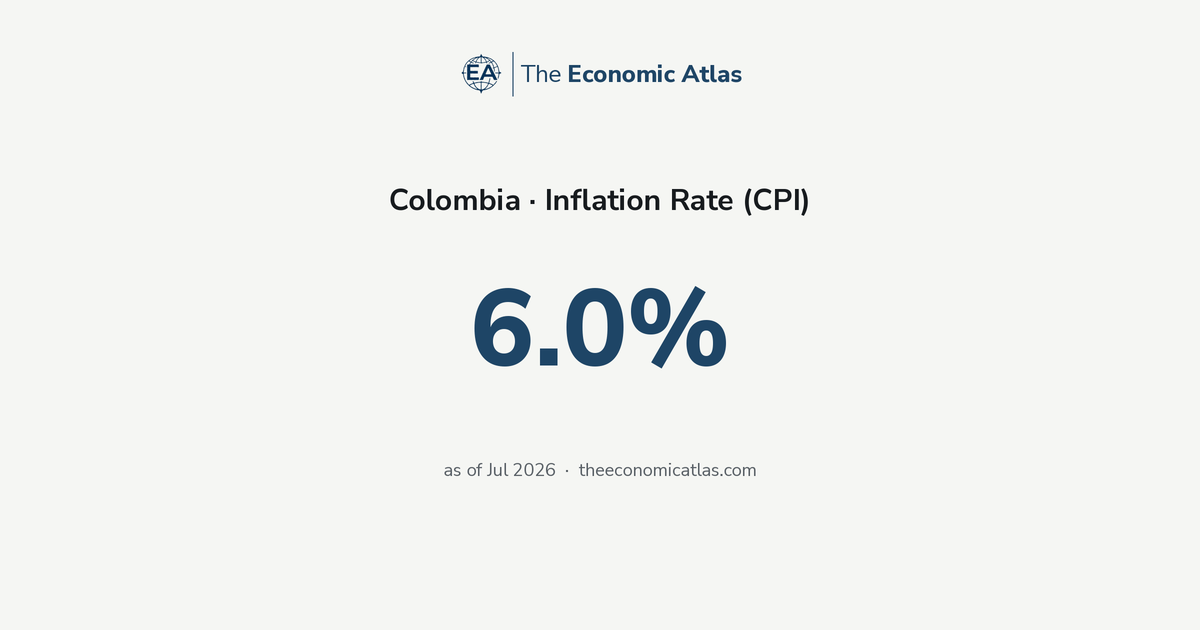
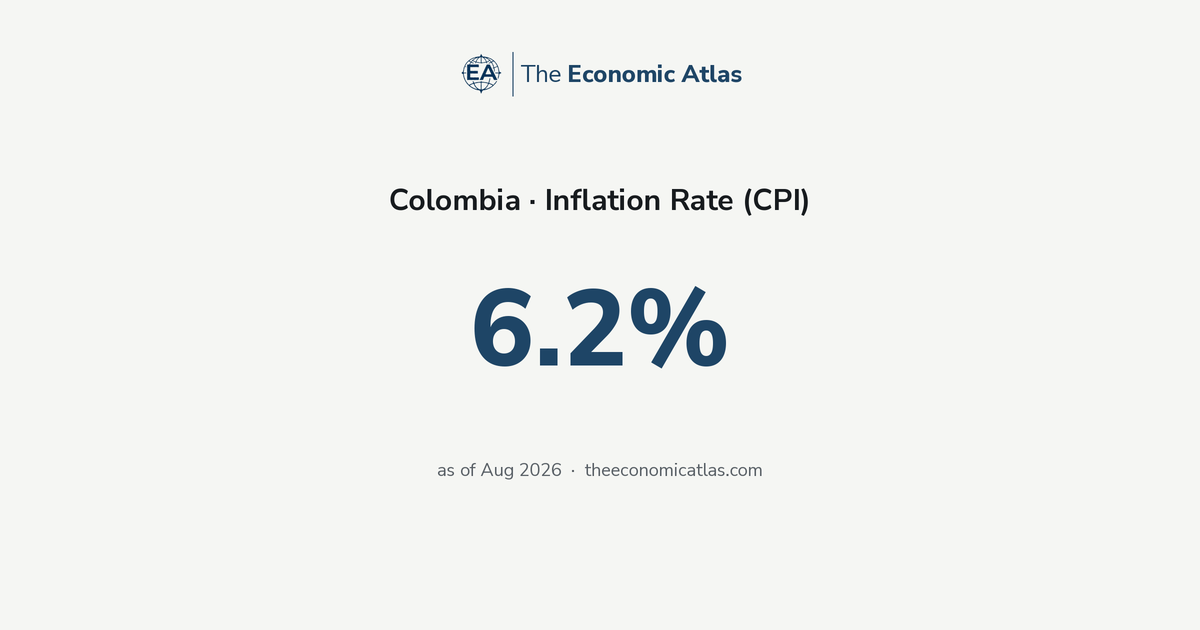
Regenerate indicator pages and OG cards

Changed region(s): [[0.4625, 0.4524, 0.5242, 0.6032], [0.37, 0.7238, 0.6475, 0.754]]

diff --git a/indicators/colombia-inflation-rate.html b/indicators/colombia-inflation-rate.html
@@ -4,16 +4,16 @@
 <meta charset="UTF-8">
 <meta name="viewport" content="width=device-width, initial-scale=1.0">
 <title>Colombia Inflation Rate (CPI) · Live Data &amp; History | The Economic Atlas</title>
-<meta name="description" content="Colombia inflation rate: 6.0% as of 2026-07. How much consumer prices are rising compared with a year ago. Banco de la República targets 3% inflation, with a tolerance band of ±1 percentage point.">
+<meta name="description" content="Colombia inflation rate: 6.2% as of 2026-08. How much consumer prices are rising compared with a year ago. Banco de la República targets 3% inflation, with a tolerance band of ±1 percentage point.">
 <link rel="canonical" href="https://theeconomicatlas.com/indicators/colombia-inflation-rate">
 <meta property="og:type" content="website">
-<meta property="og:title" content="Colombia Inflation Rate (CPI): 6.0%">
-<meta property="og:description" content="Colombia inflation rate: 6.0% as of 2026-07. How much consumer prices are rising compared with a year ago. Banco de la República targets 3% inflation, with a tolerance band of ±1 percentage point.">
+<meta property="og:title" content="Colombia Inflation Rate (CPI): 6.2%">
+<meta property="og:description" content="Colombia inflation rate: 6.2% as of 2026-08. How much consumer prices are rising compared with a year ago. Banco de la República targets 3% inflation, with a tolerance band of ±1 percentage point.">
 <meta property="og:image" content="https://theeconomicatlas.com/og/colombia-inflation-rate.png">
 <meta property="og:url" content="https://theeconomicatlas.com/indicators/colombia-inflation-rate">
 <meta name="twitter:card" content="summary_large_image">
-<meta name="twitter:title" content="Colombia Inflation Rate (CPI): 6.0%">
-<meta name="twitter:description" content="Colombia inflation rate: 6.0% as of 2026-07. How much consumer prices are rising compared with a year ago. Banco de la República targets 3% inflation, with a tolerance band of ±1 percentage point.">
+<meta name="twitter:title" content="Colombia Inflation Rate (CPI): 6.2%">
+<meta name="twitter:description" content="Colombia inflation rate: 6.2% as of 2026-08. How much consumer prices are rising compared with a year ago. Banco de la República targets 3% inflation, with a tolerance band of ±1 percentage point.">
 <meta name="twitter:image" content="https://theeconomicatlas.com/og/colombia-inflation-rate.png">
 <link rel="icon" type="image/png" sizes="32x32" href="../favicon-32.png">
 <link rel="apple-touch-icon" href="../apple-touch-icon.png">
@@ -48,7 +48,7 @@
   "name": "Colombia Inflation Rate (CPI)",
   "description": "How much consumer prices are rising compared with a year ago. Banco de la República targets 3% inflation, with a tolerance band of ±1 percentage point.",
   "url": "https://theeconomicatlas.com/indicators/colombia-inflation-rate",
-  "temporalCoverage": "2015-01/2026-07",
+  "temporalCoverage": "2015-01/2026-08",
   "creator": {
     "@type": "Organization",
     "name": "The Economic Atlas",
@@ -576,16 +576,16 @@
   <div class="hero" style="margin:0 0 22px;justify-content:flex-start;">
     <div class="stat" style="max-width:320px;">
       <p class="label">Latest</p>
-      <p class="figure"><span class="led green" id="indicatorLed" title="Updated on schedule" role="img" aria-label="Updated on schedule"></span><span id="indicatorFigure">6.0%</span></p>
-      <p class="delta good" id="indicatorDelta"><span class="arrow" aria-hidden="true">▼</span> −0.1pp vs prior</p>
-      <p class="period" id="indicatorPeriod">Jul 2026 &middot; updated 2026-09-20</p>
+      <p class="figure"><span class="led green" id="indicatorLed" title="Updated on schedule" role="img" aria-label="Updated on schedule"></span><span id="indicatorFigure">6.2%</span></p>
+      <p class="delta bad" id="indicatorDelta"><span class="arrow" aria-hidden="true">▲</span> +0.2pp vs prior</p>
+      <p class="period" id="indicatorPeriod">Aug 2026 &middot; updated 2026-09-20</p>
     </div>
   </div>
 
   <div class="panel indicator-panel">
     <div class="panelhead"><h2>Inflation Rate (CPI)</h2></div>
-    <p class="range" id="indicatorRange">Jan 2015 to Jul 2026</p>
-    <div class="indicator-chart-outer"><canvas id="indicatorChart" role="img" aria-label="Colombia Inflation Rate (CPI), Jan 2015 to Jul 2026"></canvas></div>
+    <p class="range" id="indicatorRange">Jan 2015 to Aug 2026</p>
+    <div class="indicator-chart-outer"><canvas id="indicatorChart" role="img" aria-label="Colombia Inflation Rate (CPI), Jan 2015 to Aug 2026"></canvas></div>
     <p class="src">Source: OECD live prices system · CPI, all items, year on year.</p>
   </div>
 
@@ -613,7 +613,7 @@
 <script src="https://cdnjs.cloudflare.com/ajax/libs/Chart.js/4.4.1/chart.umd.min.js"></script>
 <script>
 (function(){
-  var nominalPts = [["2015-01", 3.815261], ["2015-02", 4.355371], ["2015-03", 4.55449], ["2015-04", 4.636958], ["2015-05", 4.400308], ["2015-06", 4.422205], ["2015-07", 4.458109], ["2015-08", 4.747294], ["2015-09", 5.353647], ["2015-10", 5.897349], ["2015-11", 6.39002], ["2015-12", 6.771054], ["2016-01", 7.459423], ["2016-02", 7.590622], ["2016-03", 7.976525], ["2016-04", 7.933898], ["2016-05", 8.200082], ["2016-06", 8.600918], ["2016-07", 8.960837], ["2016-08", 8.096013], ["2016-09", 7.270965], ["2016-10", 6.48371], ["2016-11", 5.96634], ["2016-12", 5.747127], ["2017-01", 5.47034], ["2017-02", 5.185071], ["2017-03", 4.692643], ["2017-04", 4.661792], ["2017-05", 4.36529], ["2017-06", 3.990044], ["2017-07", 3.399115], ["2017-08", 3.869025], ["2017-09", 3.968971], ["2017-10", 4.046722], ["2017-11", 4.117425], ["2017-12", 4.085457], ["2018-01", 3.672924], ["2018-02", 3.372025], ["2018-03", 3.136882], ["2018-04", 3.129549], ["2018-05", 3.158812], ["2018-06", 3.198665], ["2018-07", 3.120464], ["2018-08", 3.101674], ["2018-09", 3.22347], ["2018-10", 3.331643], ["2018-11", 3.267785], ["2018-12", 3.183291], ["2019-01", 3.154547], ["2019-02", 3.017505], ["2019-03", 3.215506], ["2019-04", 3.251561], ["2019-05", 3.313986], ["2019-06", 3.429982], ["2019-07", 3.787821], ["2019-08", 3.751524], ["2019-09", 3.820726], ["2019-10", 3.861479], ["2019-11", 3.846737], ["2019-12", 3.804302], ["2020-01", 3.622284], ["2020-02", 3.720052], ["2020-03", 3.855482], ["2020-04", 3.505172], ["2020-05", 2.851895], ["2020-06", 2.191811], ["2020-07", 1.969922], ["2020-08", 1.878103], ["2020-09", 1.967422], ["2020-10", 1.748137], ["2020-11", 1.489473], ["2020-12", 1.610449], ["2021-01", 1.597207], ["2021-02", 1.563101], ["2021-03", 1.50655], ["2021-04", 1.947777], ["2021-05", 3.295664], ["2021-06", 3.634762], ["2021-07", 3.970092], ["2021-08", 4.441022], ["2021-09", 4.510173], ["2021-10", 4.583541], ["2021-11", 5.258945], ["2021-12", 5.62267], ["2022-01", 6.944602], ["2022-02", 8.005195], ["2022-03", 8.527874], ["2022-04", 9.2341], ["2022-05", 9.066776], ["2022-06", 9.673833], ["2022-07", 10.20582], ["2022-08", 10.83597], ["2022-09", 11.43989], ["2022-10", 12.22175], ["2022-11", 12.53146], ["2022-12", 13.12247], ["2023-01", 13.25198], ["2023-02", 13.27902], ["2023-03", 13.34433], ["2023-04", 12.82287], ["2023-05", 12.36026], ["2023-06", 12.12962], ["2023-07", 11.78492], ["2023-08", 11.42734], ["2023-09", 10.99432], ["2023-10", 10.47863], ["2023-11", 10.14863], ["2023-12", 9.276055], ["2024-01", 8.346567], ["2024-02", 7.737382], ["2024-03", 7.362685], ["2024-04", 7.163281], ["2024-05", 7.156924], ["2024-06", 7.182466], ["2024-07", 6.860041], ["2024-08", 6.120451], ["2024-09", 5.808777], ["2024-10", 5.406128], ["2024-11", 5.197362], ["2024-12", 5.203063], ["2025-01", 5.22298], ["2025-02", 5.276587], ["2025-03", 5.089996], ["2025-04", 5.162292], ["2025-05", 5.052109], ["2025-06", 4.820067], ["2025-07", 4.900466], ["2025-08", 5.095577], ["2025-09", 5.176739], ["2025-10", 5.512228], ["2025-11", 5.301071], ["2025-12", 5.099884], ["2026-01", 5.353601], ["2026-02", 5.290032], ["2026-03", 5.558911], ["2026-04", 5.681311], ["2026-05", 5.842079], ["2026-06", 6.142751], ["2026-07", 6.026292]];
+  var nominalPts = [["2015-01", 3.815261], ["2015-02", 4.355371], ["2015-03", 4.55449], ["2015-04", 4.636958], ["2015-05", 4.400308], ["2015-06", 4.422205], ["2015-07", 4.458109], ["2015-08", 4.747294], ["2015-09", 5.353647], ["2015-10", 5.897349], ["2015-11", 6.39002], ["2015-12", 6.771054], ["2016-01", 7.459423], ["2016-02", 7.590622], ["2016-03", 7.976525], ["2016-04", 7.933898], ["2016-05", 8.200082], ["2016-06", 8.600918], ["2016-07", 8.960837], ["2016-08", 8.096013], ["2016-09", 7.270965], ["2016-10", 6.48371], ["2016-11", 5.96634], ["2016-12", 5.747127], ["2017-01", 5.47034], ["2017-02", 5.185071], ["2017-03", 4.692643], ["2017-04", 4.661792], ["2017-05", 4.36529], ["2017-06", 3.990044], ["2017-07", 3.399115], ["2017-08", 3.869025], ["2017-09", 3.968971], ["2017-10", 4.046722], ["2017-11", 4.117425], ["2017-12", 4.085457], ["2018-01", 3.672924], ["2018-02", 3.372025], ["2018-03", 3.136882], ["2018-04", 3.129549], ["2018-05", 3.158812], ["2018-06", 3.198665], ["2018-07", 3.120464], ["2018-08", 3.101674], ["2018-09", 3.22347], ["2018-10", 3.331643], ["2018-11", 3.267785], ["2018-12", 3.183291], ["2019-01", 3.154547], ["2019-02", 3.017505], ["2019-03", 3.215506], ["2019-04", 3.251561], ["2019-05", 3.313986], ["2019-06", 3.429982], ["2019-07", 3.787821], ["2019-08", 3.751524], ["2019-09", 3.820726], ["2019-10", 3.861479], ["2019-11", 3.846737], ["2019-12", 3.804302], ["2020-01", 3.622284], ["2020-02", 3.720052], ["2020-03", 3.855482], ["2020-04", 3.505172], ["2020-05", 2.851895], ["2020-06", 2.191811], ["2020-07", 1.969922], ["2020-08", 1.878103], ["2020-09", 1.967422], ["2020-10", 1.748137], ["2020-11", 1.489473], ["2020-12", 1.610449], ["2021-01", 1.597207], ["2021-02", 1.563101], ["2021-03", 1.50655], ["2021-04", 1.947777], ["2021-05", 3.295664], ["2021-06", 3.634762], ["2021-07", 3.970092], ["2021-08", 4.441022], ["2021-09", 4.510173], ["2021-10", 4.583541], ["2021-11", 5.258945], ["2021-12", 5.62267], ["2022-01", 6.944602], ["2022-02", 8.005195], ["2022-03", 8.527874], ["2022-04", 9.2341], ["2022-05", 9.066776], ["2022-06", 9.673833], ["2022-07", 10.20582], ["2022-08", 10.83597], ["2022-09", 11.43989], ["2022-10", 12.22175], ["2022-11", 12.53146], ["2022-12", 13.12247], ["2023-01", 13.25198], ["2023-02", 13.27902], ["2023-03", 13.34433], ["2023-04", 12.82287], ["2023-05", 12.36026], ["2023-06", 12.12962], ["2023-07", 11.78492], ["2023-08", 11.42734], ["2023-09", 10.99432], ["2023-10", 10.47863], ["2023-11", 10.14863], ["2023-12", 9.276055], ["2024-01", 8.346567], ["2024-02", 7.737382], ["2024-03", 7.362685], ["2024-04", 7.163281], ["2024-05", 7.156924], ["2024-06", 7.182466], ["2024-07", 6.860041], ["2024-08", 6.120451], ["2024-09", 5.808777], ["2024-10", 5.406128], ["2024-11", 5.197362], ["2024-12", 5.203063], ["2025-01", 5.22298], ["2025-02", 5.276587], ["2025-03", 5.089996], ["2025-04", 5.162292], ["2025-05", 5.052109], ["2025-06", 4.820067], ["2025-07", 4.900466], ["2025-08", 5.095577], ["2025-09", 5.176739], ["2025-10", 5.512228], ["2025-11", 5.301071], ["2025-12", 5.099884], ["2026-01", 5.353601], ["2026-02", 5.290032], ["2026-03", 5.558911], ["2026-04", 5.681311], ["2026-05", 5.842079], ["2026-06", 6.142751], ["2026-07", 6.026292], ["2026-08", 6.24]];
   var unit = "%";
   var cs = getComputedStyle(document.documentElement);
   var INK = cs.getPropertyValue("--ink").trim() || "#171B1E";
@@ -684,7 +684,7 @@
 (function(){
   var DATA_URL = "../data-co.json", METRIC = "cpi", FREQ = "months", UNIT = "%";
   var IS_GDP = false, GDP_RAW = false, UP_IS_GOOD = false, HAS_TOGGLE = false;
-  var PERIOD_LABEL = "Jul 2026";
+  var PERIOD_LABEL = "Aug 2026";
   var STALE_DAYS = {months: 75, quarters: 150, years: 660};
   var MONTHS = ["Jan","Feb","Mar","Apr","May","Jun","Jul","Aug","Sep","Oct","Nov","Dec"];
 
